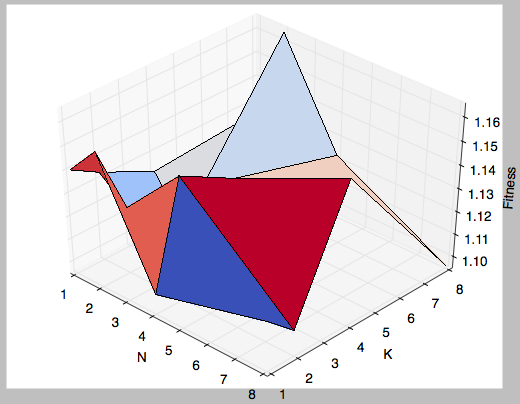
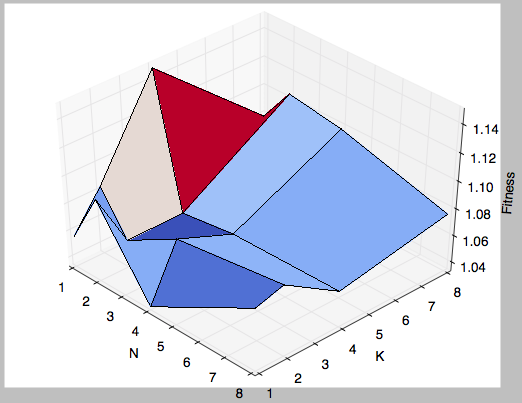
Correct haystack tuning data

diff --git a/report.html b/report.html
@@ -40,7 +40,7 @@ The 3D graphs depict how the fitness after 25000 generations varies with N and K
 <td>100&times;100 pixels<br><img src="haystack.png"></td>
 <td>P=100, N=1, K=1<br><img src="haystack/haystack_anim.png"></td>
 <td><img src="haystack_fitness.png"></td>
-<td><img width=400 height=400 src="haystack_tuning.png"><br>N=2, K=8 gave the best result<td>
+<td><img width=400 height=400 src="haystack_tuning.png"><br>N=1, K=4 gave the best result<td>
 </tr>
 
 <tr>
